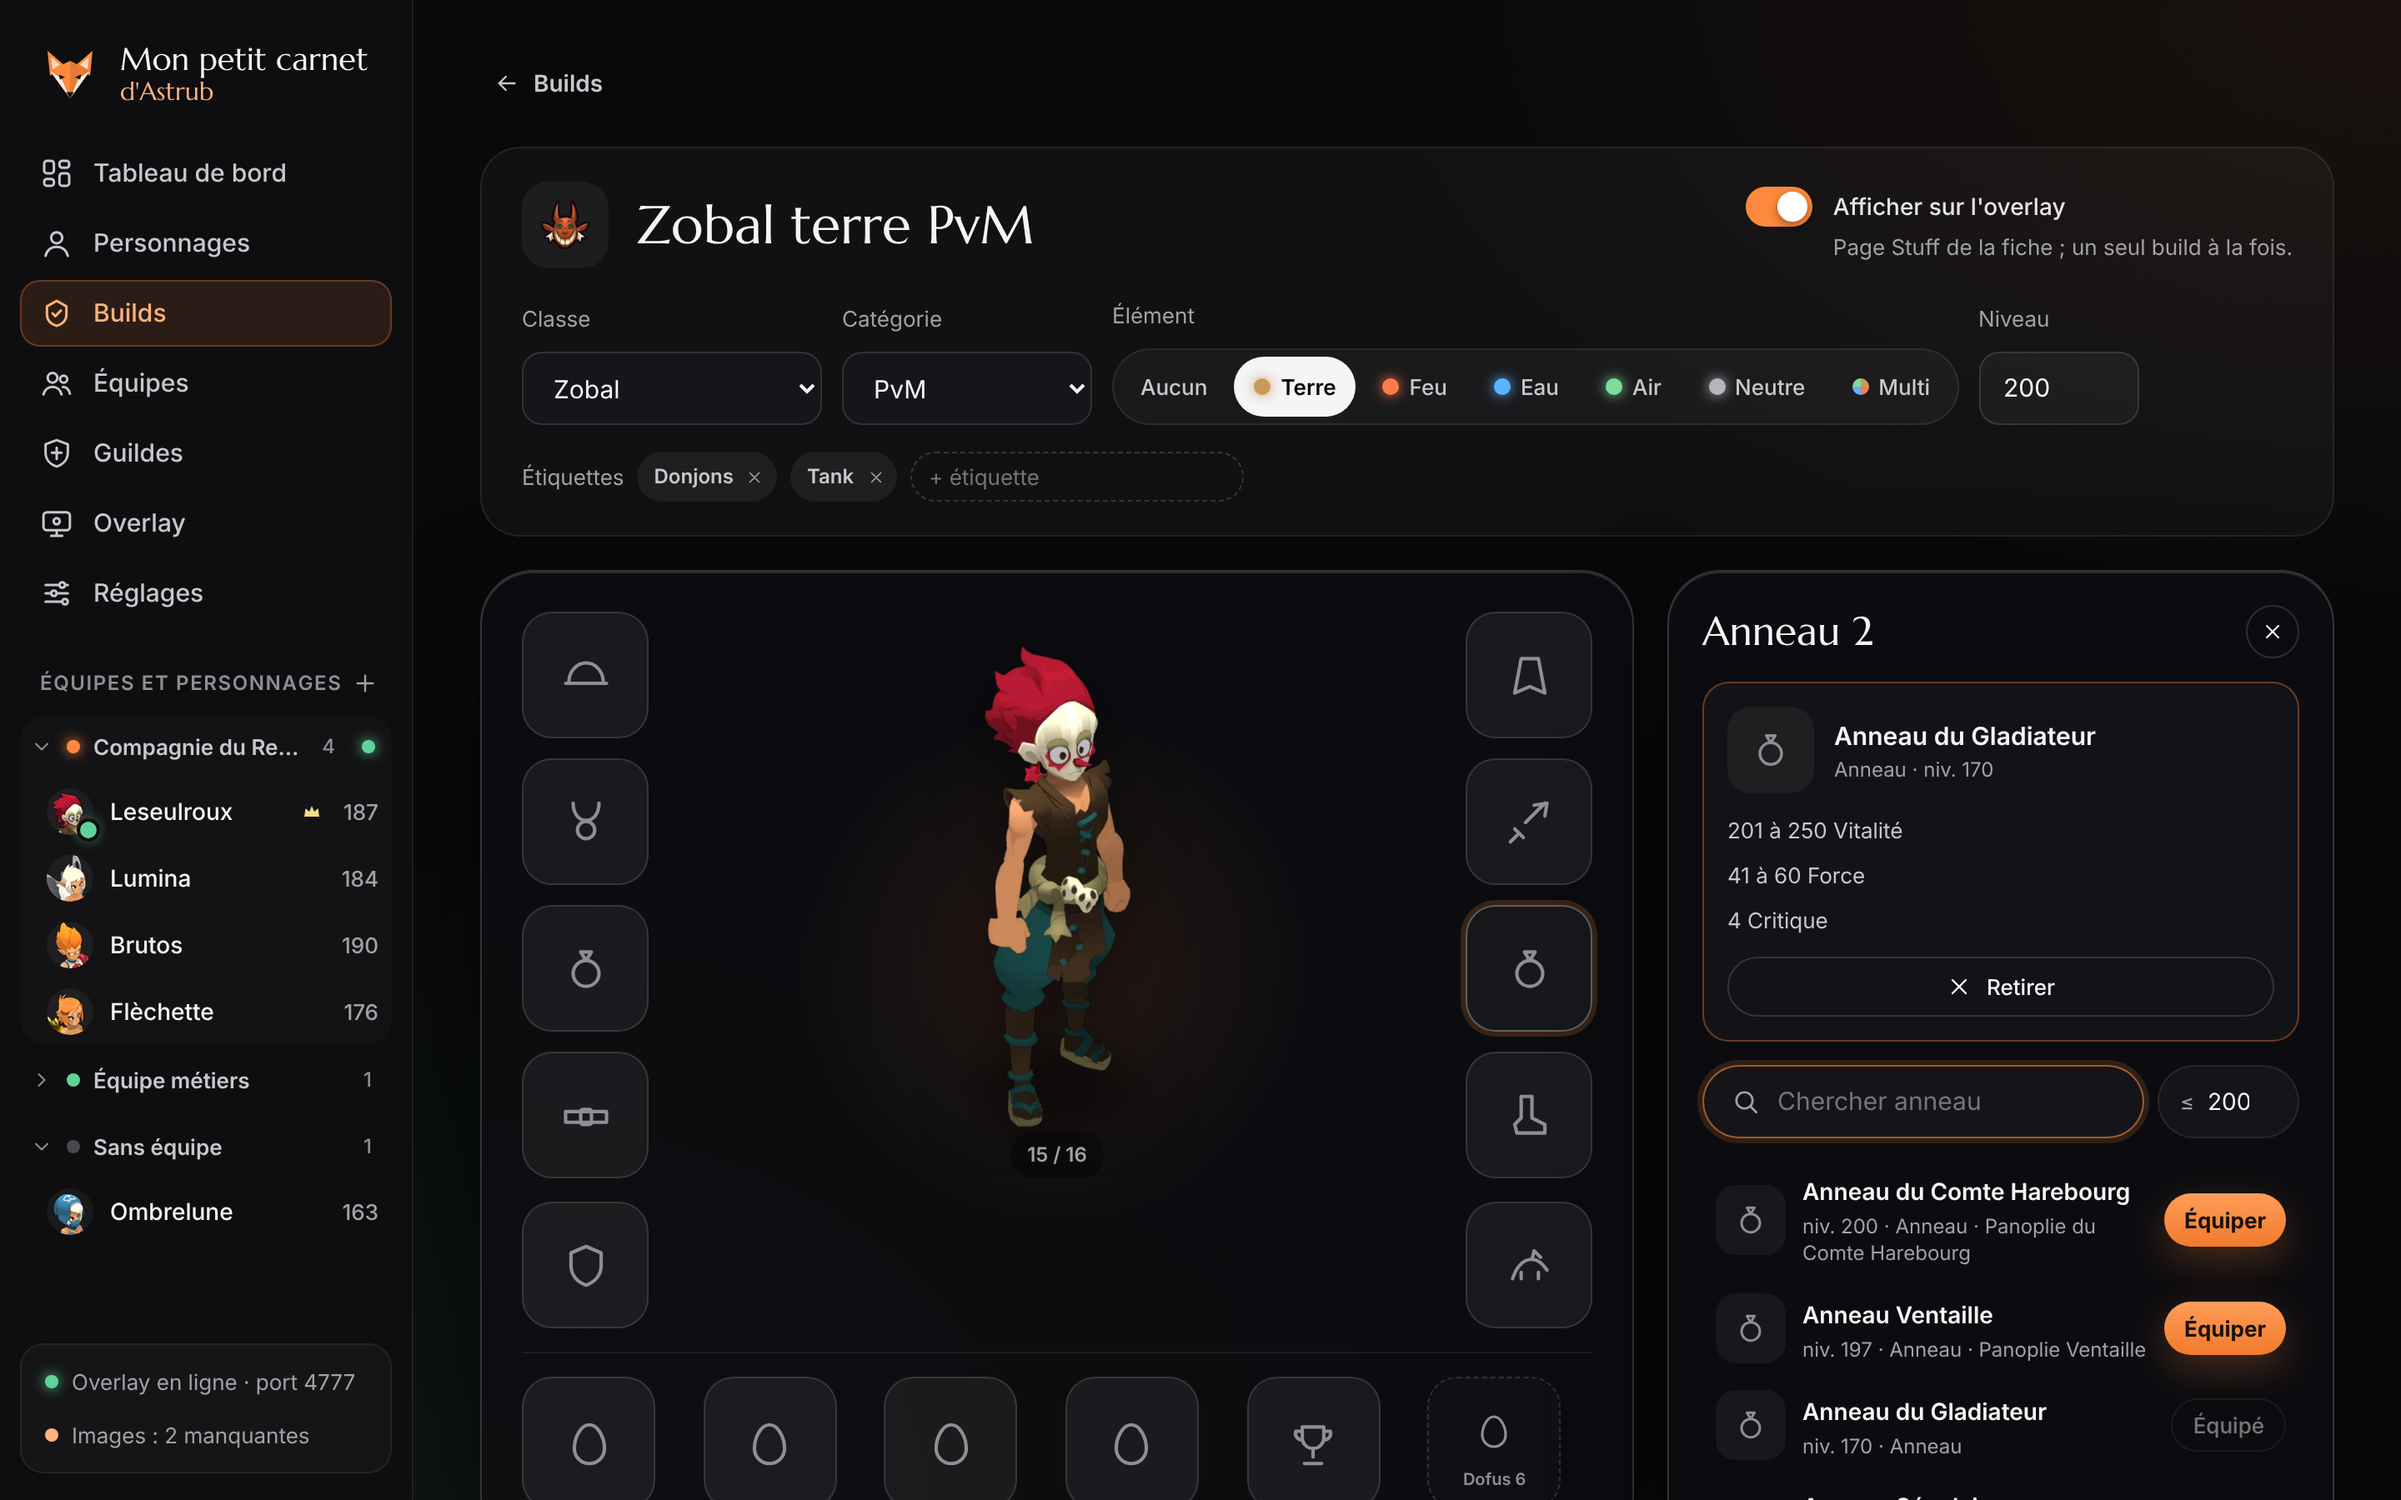
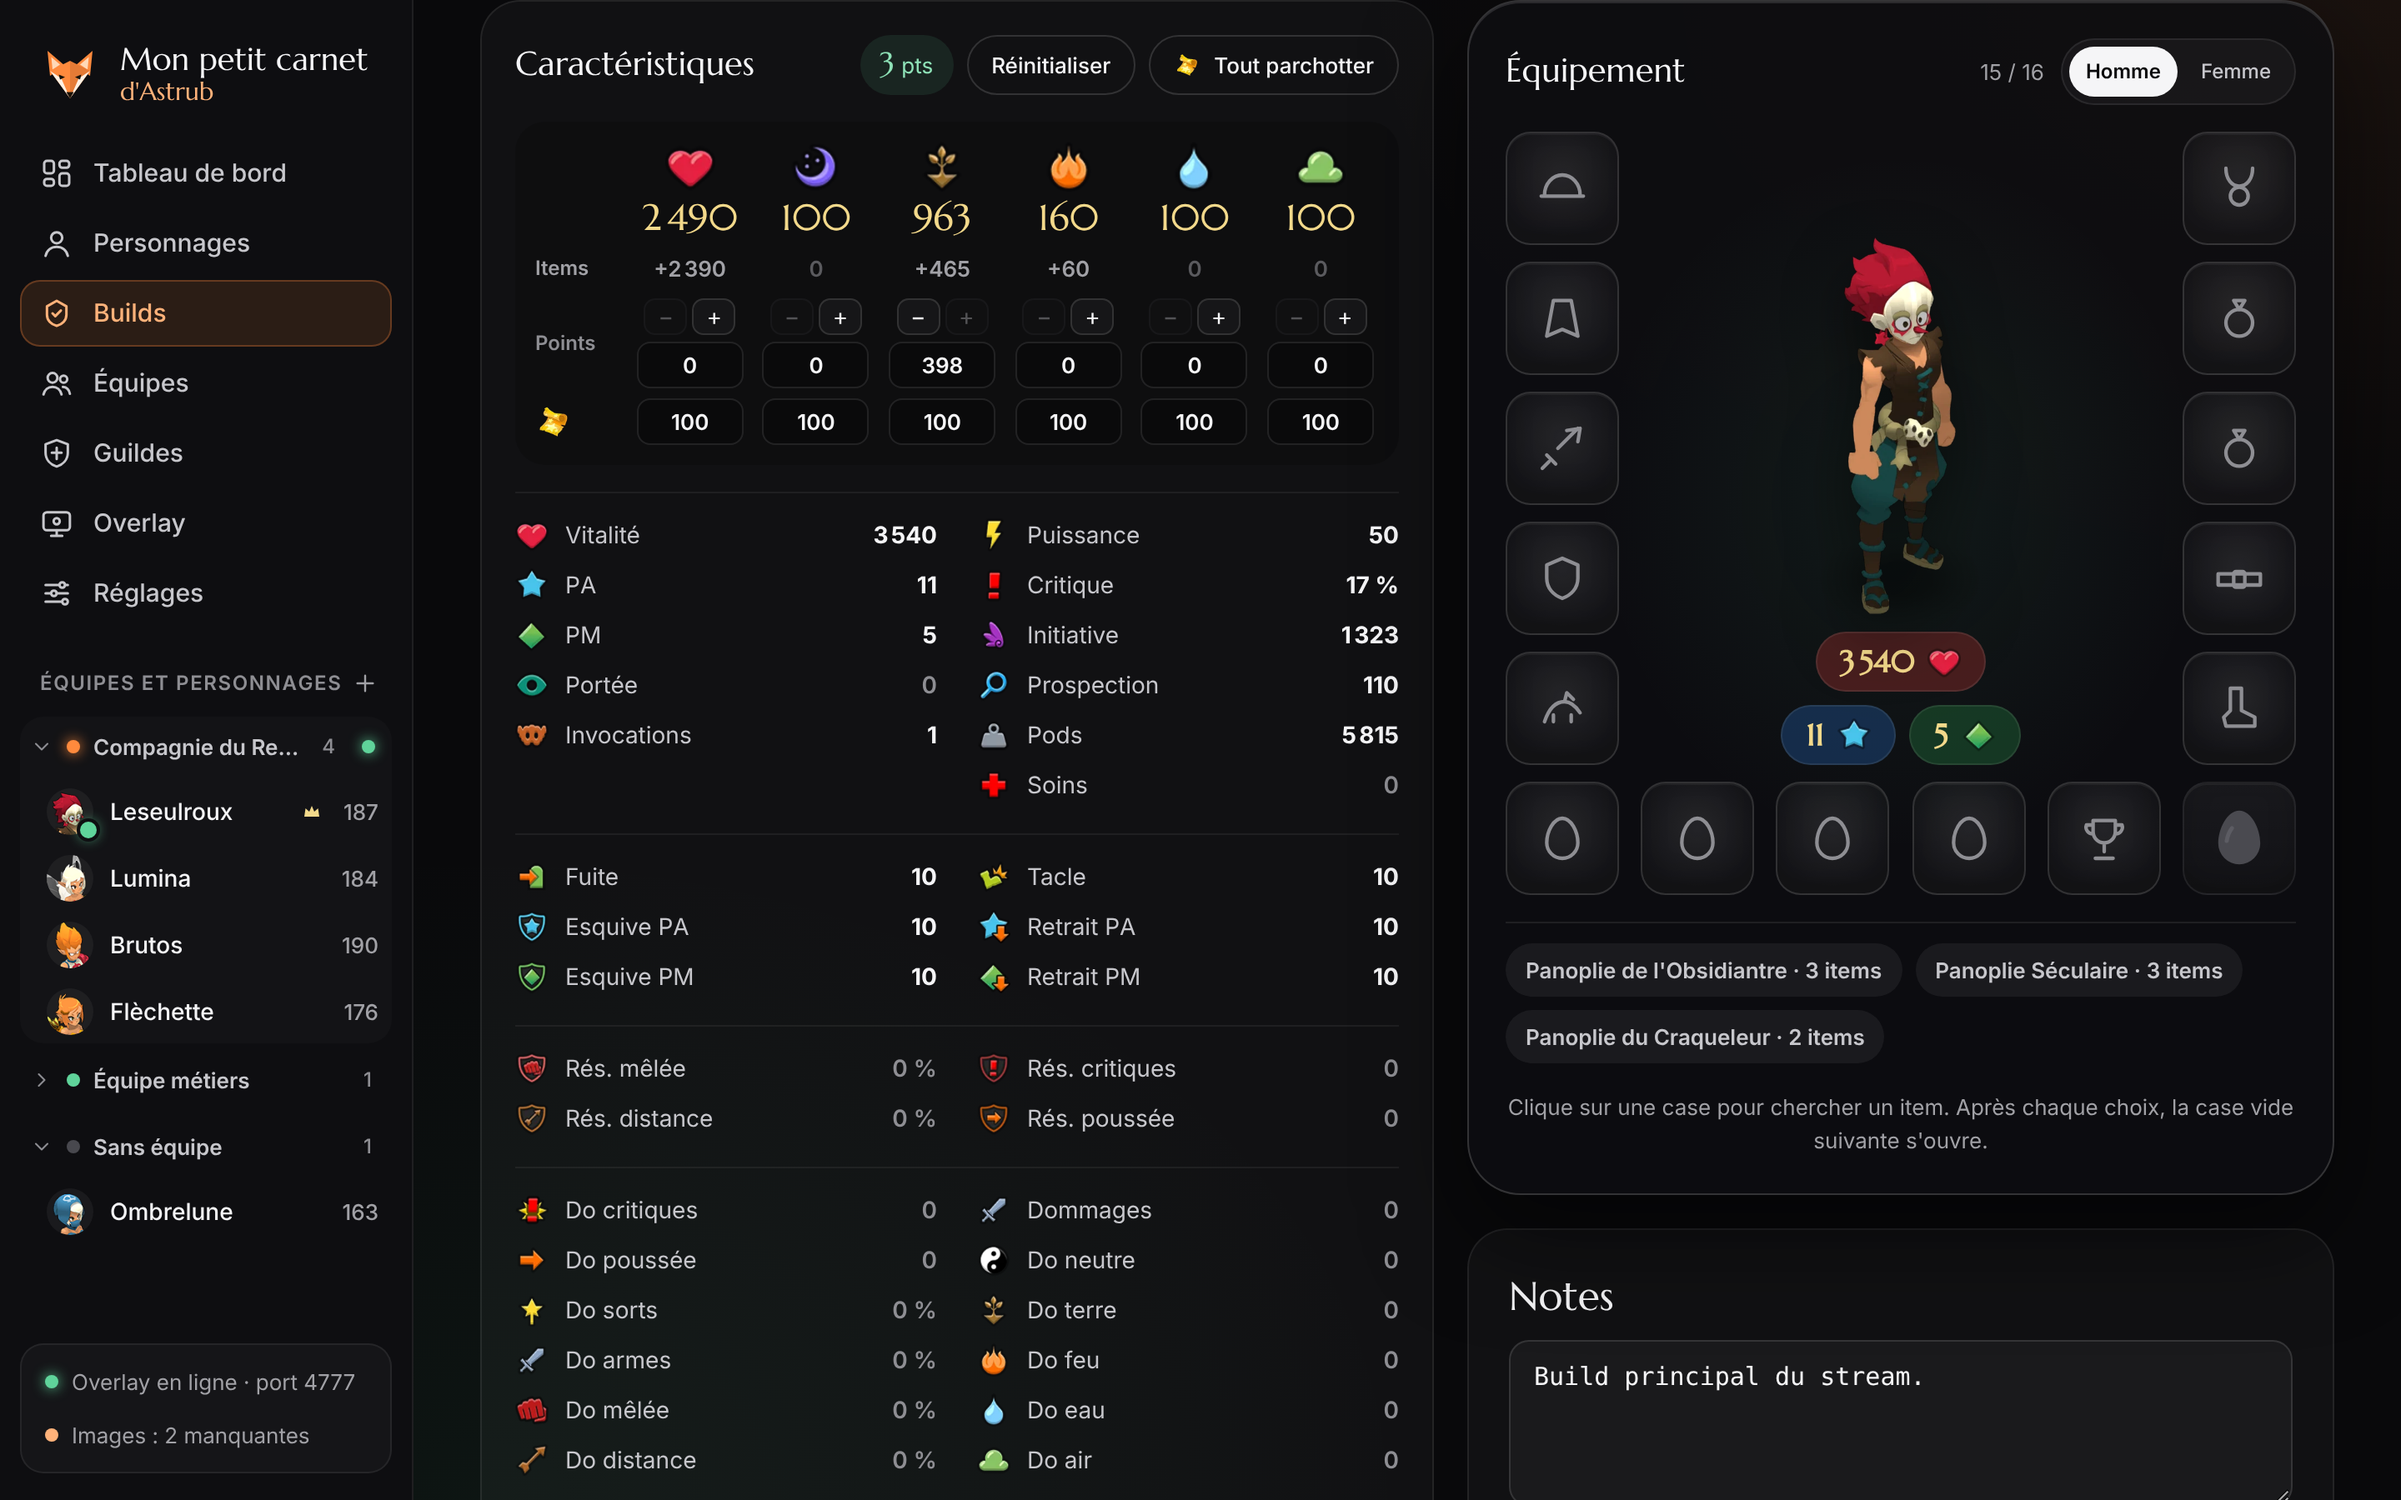
update readme and captures

diff --git a/README.md b/README.md
@@ -22,7 +22,7 @@ Mon petit carnet d'Astrub est une application Windows pensée pour les joueurs d
 
 - **Carnet de personnages** : niveau, métiers, Dofus obtenus ou en cours, guilde et alliance, pour un personnage seul ou une équipe multicompte, avec une page résumé par personnage.
 - **Overlay Streamlabs** : une fiche compacte qui tourne entre plusieurs pages (personnage, Dofus, métiers, équipement), et des animations plein écran, avec leur son, quand tu montes de niveau ou obtiens un Dofus.
-- **Builds** : une bibliothèque de builds partagée par tous tes personnages ; chacun porte le sien (onglet Stuff de sa fiche), et l'overlay montre celui du personnage à l'écran.
+- **Builds** : un builder complet (caractéristiques, parchemins, stats calculées, inventaire façon jeu) et une bibliothèque partagée par tous tes personnages ; chacun porte le sien, l'overlay montre celui du personnage à l'écran, et un code de partage permet d'échanger un build.
 - **Tout reste sur ton PC** : pas de compte et pas de serveur. Tes données sont de simples fichiers dans `%APPDATA%\page-dofus`.
 
 ## Où en est le projet
@@ -35,7 +35,7 @@ Mon petit carnet d'Astrub est une application Windows pensée pour les joueurs d
 | 0.4 | Overlay Streamlabs et événements | Disponible |
 | 0.5 | Installeur et mises à jour automatiques | Disponible |
 | 0.6 | Suivi d'équipe, page résumé, guilde et alliance, sons des événements | Disponible |
-| 0.7 | Builder complet : caractéristiques, stats et totaux | Prévu |
+| 0.7 | Builder complet : caractéristiques, stats, inventaire façon jeu, code de partage | Disponible |
 | 1.0 | Version finale | Prévu |
 
 <p align="center">
@@ -60,6 +60,9 @@ L'app sert l'overlay sur ton PC (`http://127.0.0.1:4777`). Dans l'écran Overlay
 
 <p align="center">
   <img src="captures/overlay-equipe.png" width="900" alt="Bandeau d'équipe de l'overlay">
+</p>
+<p align="center">
+  <img src="captures/overlay-stuff.png" width="900" alt="Page Stuff de l'overlay : l'inventaire comme dans le jeu">
 </p>
 <p align="center">
   <img src="captures/overlay.png" width="440" alt="Écran Overlay de l'app">
